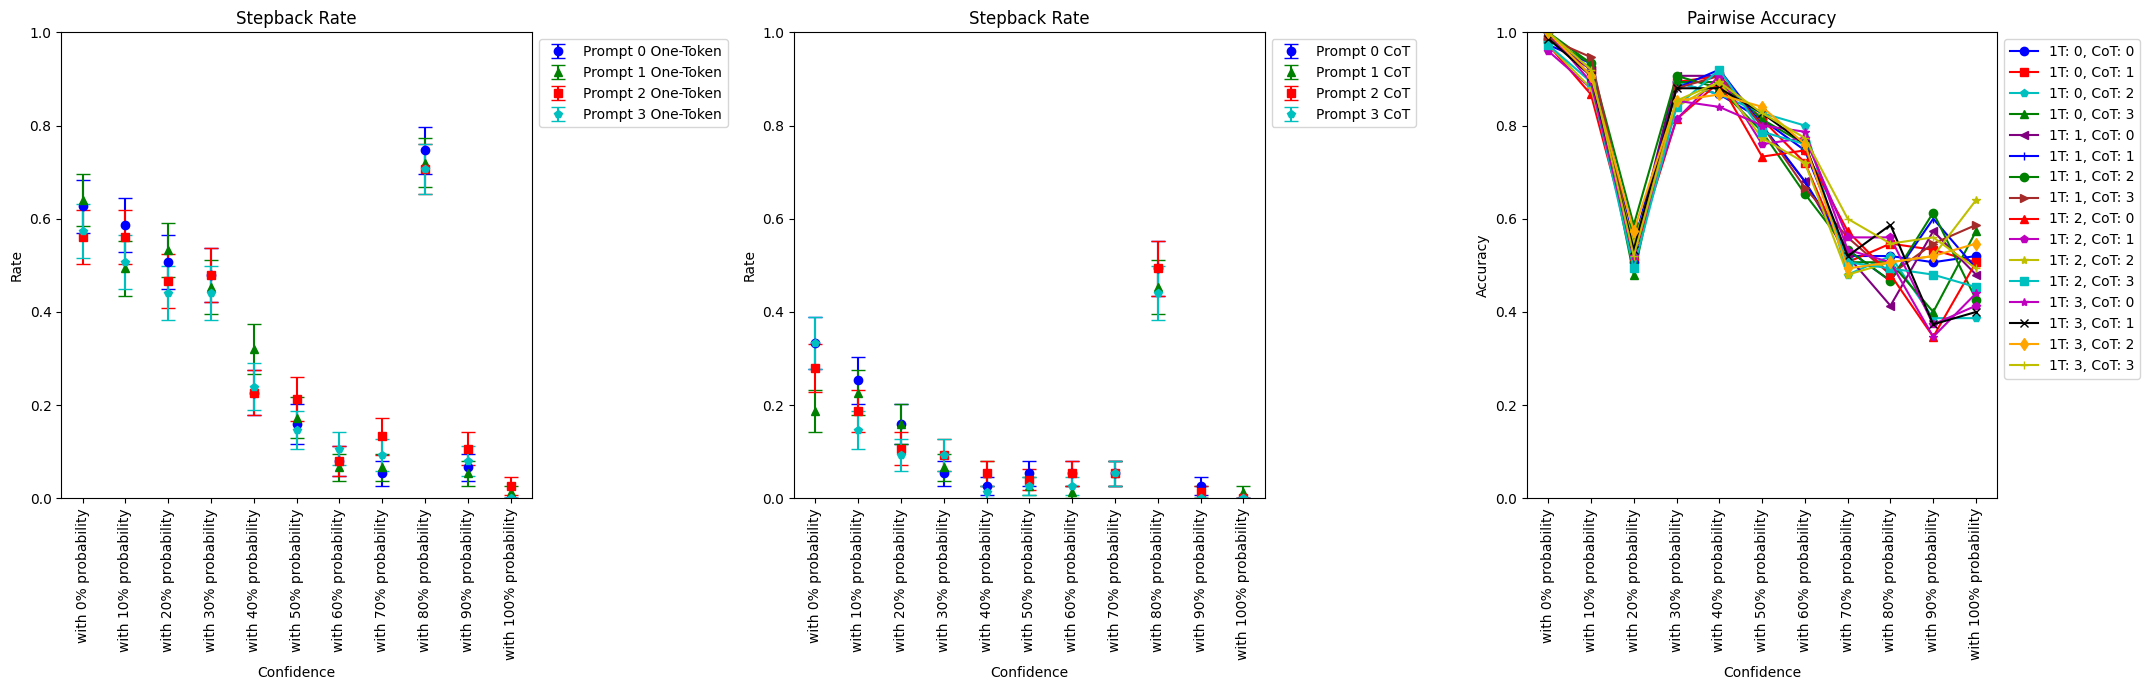
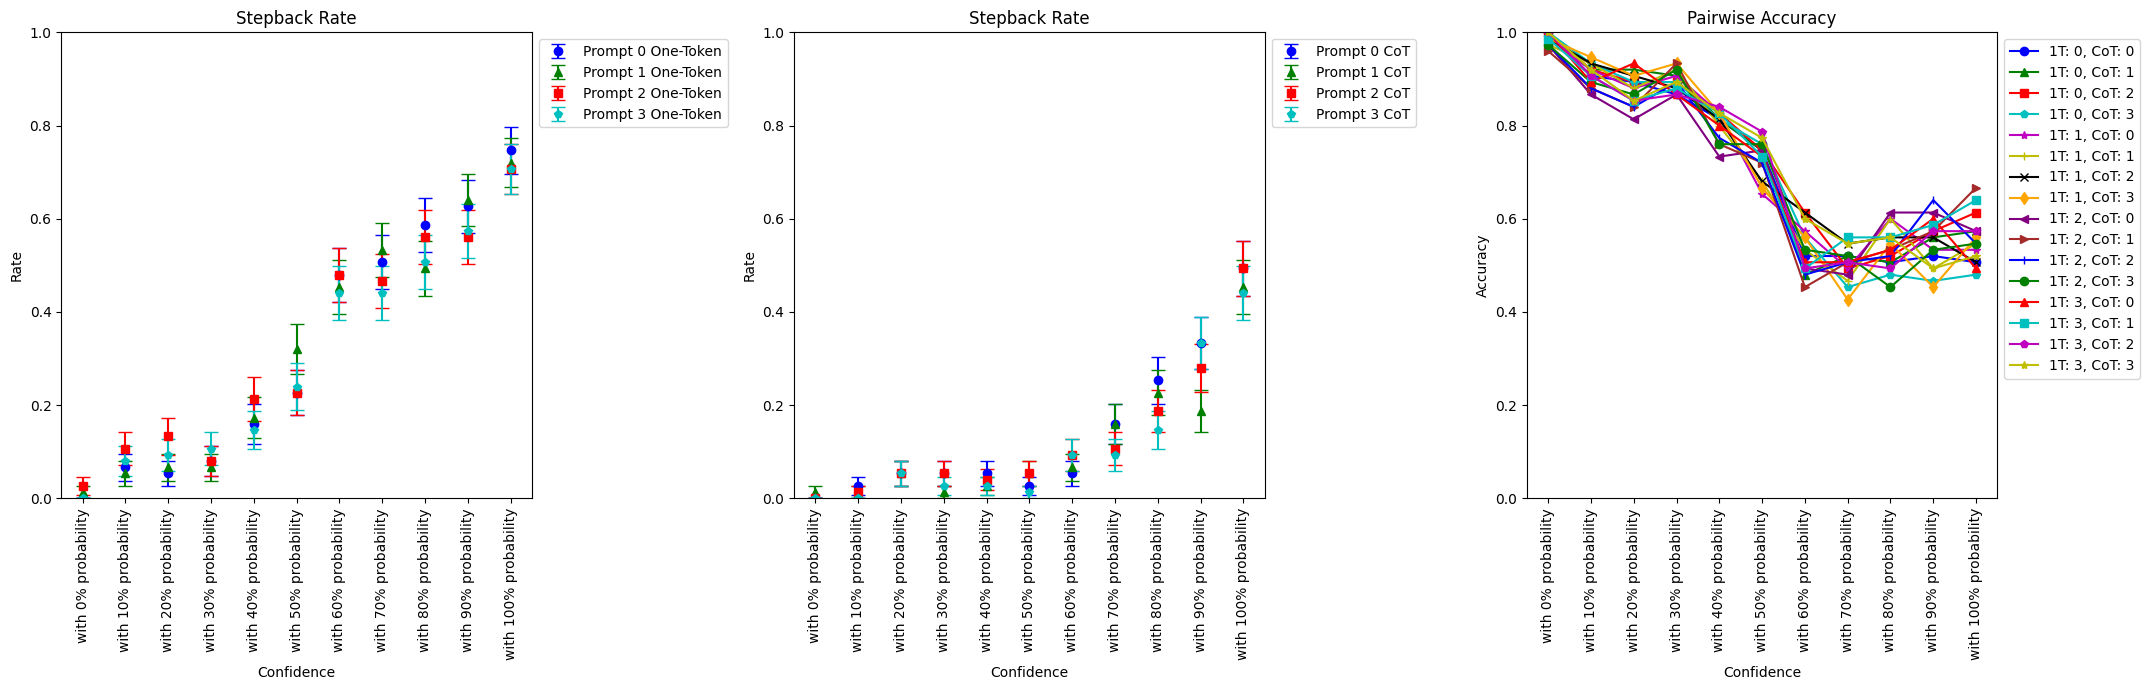
fixing some bugs..creating some more...

diff --git a/results_prompt_sensitivity/plot_sensitivity.py b/results_prompt_sensitivity/plot_sensitivity.py
@@ -7,17 +7,18 @@ def plot_stepback_rates_with_confidence(file_path):
     df = pd.read_csv(file_path)
     
     if 'knapsack' in file_path:
-        df['Confidence'] = df['Confidence'].apply(lambda x: f'with {int(x*10)}% probability')
+        df['Confidence'] = df['Confidence'].apply(lambda x: int(x * 10))
+        xtick_labels = [f'resources expended: {i}' for i in range(1, 11)]
     else:
         df['Confidence'] = df['Confidence'].astype(str).str.extract(r'with (\d+)% probability').astype(int)
-        df['Confidence'] = df['Confidence'].apply(lambda x: f'with {x}% probability')
-    
-    df = df.sort_values('Confidence', ascending=False)
+        xtick_labels = [f'with {i}% probability' for i in range(0, 101, 10)]
+
+    df = df.sort_values('Confidence')
 
     results_dir = 'results_prompt_sensitivity'
     graphs_dir = os.path.join(results_dir, 'graphs_4_prompts')
     os.makedirs(graphs_dir, exist_ok=True)
-   
+
     colors = ['b', 'g', 'r', 'c', 'm', 'y', 'k', 'orange', 'purple', 'brown']
     markers = ['o', '^', 's', 'p', '*', '+', 'x', 'd', '<', '>', '|']
     color_marker_combinations = list(itertools.product(colors, markers))
@@ -28,25 +29,30 @@ def plot_stepback_rates_with_confidence(file_path):
     for idx, (prompt_idx, group_data) in enumerate(df.groupby('Prompt Index for One Token')):
         color = colors[idx % len(colors)]
         marker = markers[idx % len(markers)]
+
         one_token_stats = group_data.groupby('Confidence', observed=True)['One Token Result'].agg(['mean', 'sem'])
-        axs[0].errorbar(range(len(one_token_stats)), one_token_stats['mean'], yerr=one_token_stats['sem'], fmt=marker, color=color, capsize=5, label=f'Prompt {prompt_idx} One-Token')
+        one_token_stats = one_token_stats.reindex(df['Confidence'].unique()).fillna(0)
+        
+        axs[0].errorbar(range(len(xtick_labels)), one_token_stats['mean'], yerr=one_token_stats['sem'], fmt=marker, color=color, capsize=5, label=f'Prompt {prompt_idx} One-Token')
 
     for idx, (prompt_idx, group_data) in enumerate(df.groupby('Prompt Index for CoT')):
         color = colors[idx % len(colors)]
         marker = markers[idx % len(markers)]
+        
         cot_stats = group_data.groupby('Confidence', observed=True)['CoT Result'].agg(['mean', 'sem'])
-        axs[1].errorbar(range(len(cot_stats)), cot_stats['mean'], yerr=cot_stats['sem'], fmt=marker, color=color, capsize=5, label=f'Prompt {prompt_idx} CoT')
+        cot_stats = cot_stats.reindex(df['Confidence'].unique()).fillna(0)
+        
+        axs[1].errorbar(range(len(xtick_labels)), cot_stats['mean'], yerr=cot_stats['sem'], fmt=marker, color=color, capsize=5, label=f'Prompt {prompt_idx} CoT')
 
-    # Compute pairwise accuracy for all combinations
+    # Pairwise accuracy 
     pairwise_accuracies = []
     token_indices = df['Prompt Index for One Token'].unique()
     cot_indices = df['Prompt Index for CoT'].unique()
-    confidences = sorted(df['Confidence'].unique(), reverse=True)
 
     for idx, (token_idx, cot_idx) in enumerate(itertools.product(token_indices, cot_indices)):
         color = colors[idx % len(colors)]
         marker = markers[idx % len(markers)]
-        for conf in confidences:
+        for conf in df['Confidence'].unique():
             token_conf_data = df[(df['Prompt Index for One Token'] == token_idx) & (df['Confidence'] == conf)]
             cot_conf_data = df[(df['Prompt Index for CoT'] == cot_idx) & (df['Confidence'] == conf)]
 
@@ -59,20 +65,29 @@ def plot_stepback_rates_with_confidence(file_path):
                 pairwise_accuracies.append({'Confidence': conf, 'Pairwise Accuracy': accuracy, 'Color': color, 'Marker': marker, 'Label': f'1T: {token_idx}, CoT: {cot_idx}'})
 
     pairwise_df = pd.DataFrame(pairwise_accuracies)
-    for label, group_data in pairwise_df.groupby('Label'):
-        axs[2].plot(range(len(group_data)), group_data['Pairwise Accuracy'], marker=group_data['Marker'].iloc[0], color=group_data['Color'].iloc[0], label=label)
+    pairwise_df = pairwise_df.pivot(index='Confidence', columns='Label', values='Pairwise Accuracy').reindex(df['Confidence'].unique()).reset_index()
 
-    xtick_labels = [f'with {i}% probability' for i in range(100, -1, -10)]
+    for idx, label in enumerate(pairwise_df.columns[1:]):
+        color = colors[idx % len(colors)]
+        marker = markers[idx % len(markers)]
+        axs[2].plot(range(len(xtick_labels)), pairwise_df[label], marker=marker, color=color, label=label)
 
-    for ax in axs:
+    for ax in axs[:2]:
         ax.set_ylim(0, 1)
-        ax.set_title('Stepback Rate' if ax != axs[2] else 'Pairwise Accuracy')
+        ax.set_title('Stepback Rate')
         ax.set_xlabel('Confidence')
-        ax.set_ylabel('Rate' if ax != axs[2] else 'Accuracy')
+        ax.set_ylabel('Rate')
         ax.legend(loc='upper left', bbox_to_anchor=(1, 1))
         ax.set_xticks(range(len(xtick_labels)))
         ax.set_xticklabels(xtick_labels, rotation=90)
-        ax.invert_xaxis()
+
+    axs[2].set_ylim(0, 1)
+    axs[2].set_title('Pairwise Accuracy')
+    axs[2].set_xlabel('Confidence')
+    axs[2].set_ylabel('Accuracy')
+    axs[2].legend(loc='upper left', bbox_to_anchor=(1, 1))
+    axs[2].set_xticks(range(len(xtick_labels)))
+    axs[2].set_xticklabels(xtick_labels, rotation=90)
 
     plt.tight_layout(rect=[0, 0, 0.9, 1])
     plot_filename = os.path.splitext(os.path.basename(file_path))[0] + '_results_corrected.png'

diff --git a/prompt_sensitivity.py b/prompt_sensitivity.py
@@ -40,7 +40,7 @@ def make_validation_data(context_list, prompt_indices, confidences, outfile, n=1
     def process_query(idx, confidence, one_token_idx, cot_idx, formatted_context):
         try:
             one_token_output = perform_one_token_cpc(llm, formatted_context)
-            #print(f"One Token Output: {one_token_output}")
+            #print(f"1t Output: {one_token_output}")
             one_token_result = 1 if one_token_output == "No" else 0
             
             cot_output, cot_yesno = perform_cot_cpc(llm, formatted_context)
